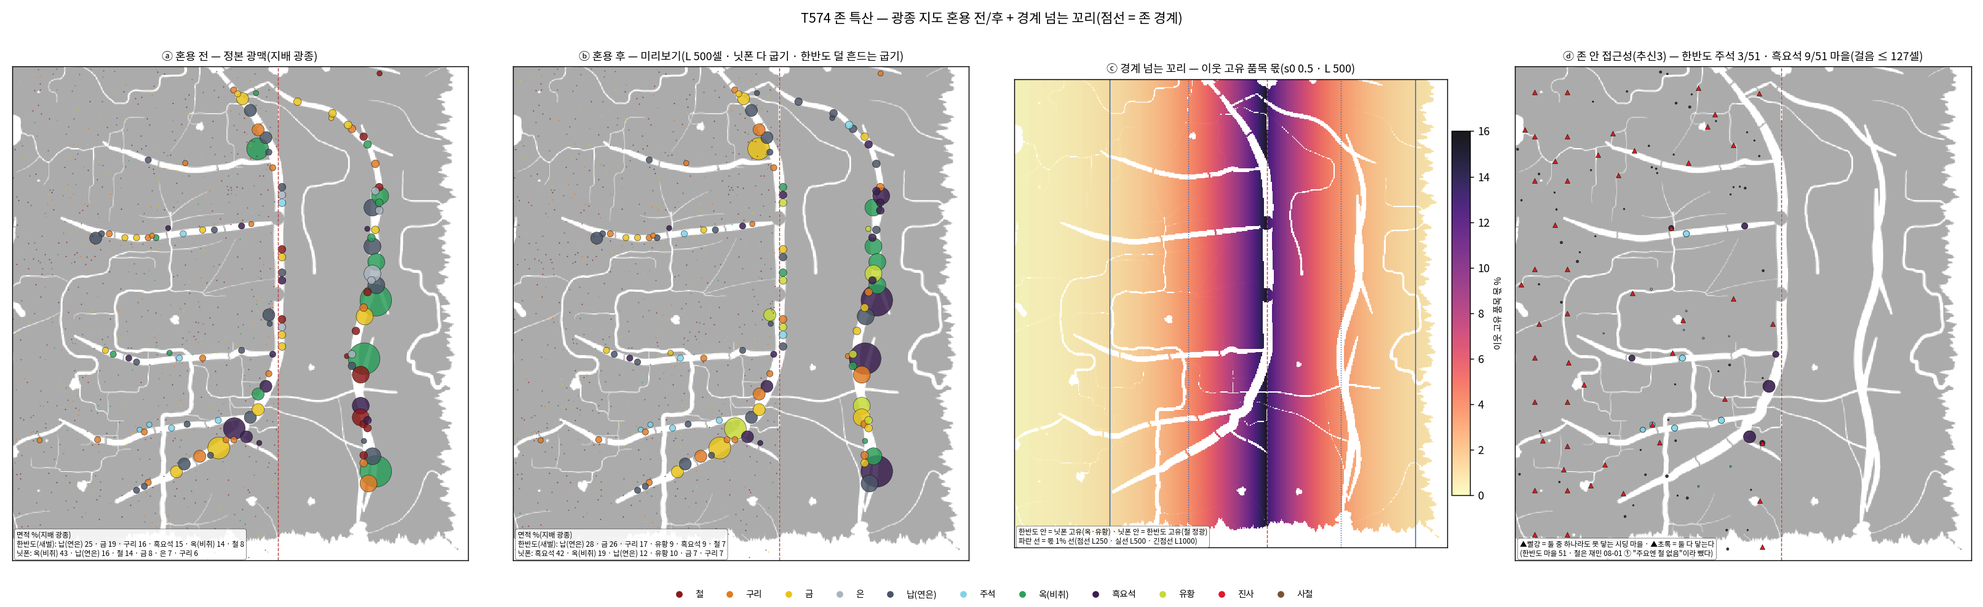
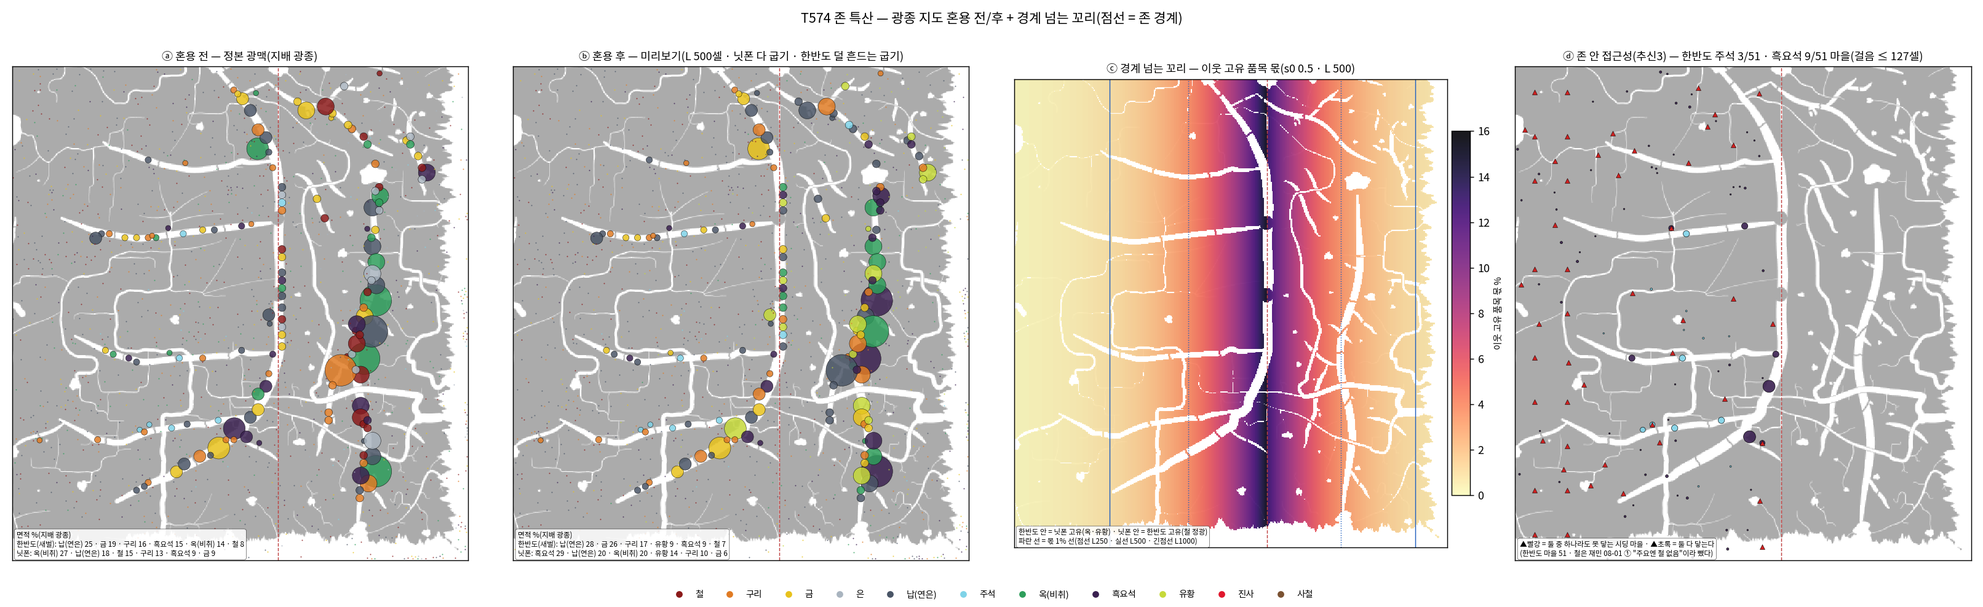
[승인 대기 · T574] ③ 지금 main(1b252a60) 위 다시 잼 — 보고 §3 새 절(첫 판은 §3-옛 기록) · T550 닛폰 정본 490·시딩 20 + T570 달력 여섯째 판 · 두 존 판 3시드 × 팔 셋 성장 존 비 끔 0.95/0.76/0.92 · 켬 0.82/0.73/0.80 · 새 품목 0.76/0.87/0.85(0.8~1.25 밖 셋 · 전부 아래 · 표에만) · 닛폰 광산 마을 1/7 → 11/20 · 켬 다 굽기가 넷에 유황(마트노 1.00 · 토오광산 0.75) · 교역 두 방향(한→닛 463~755
Claude-Session: https://claude.ai/code/session_01JuHsbfxFXZmmCyzvZJZ4At

diff --git a/보고/T574_2026-10-03.md b/보고/T574_2026-10-03.md
@@ -1,17 +1,17 @@
-# 보고 — T574: 존마다 특산이 크게 다르다 — 존 특산 프로필 정본(`server/region-profiles.js`) + 경계 넘는 꼬리(추신2) + 두 존 균형 자 · 광종 TV 설계 0 → 0.44 · 끔 = 다섯째 판 바이트 동일
+# 보고 — T574: 존마다 특산이 크게 다르다 — 존 특산 프로필 정본(`server/region-profiles.js`) + 경계 넘는 꼬리(추신2) + 두 존 균형 자 · ③ 지금 main 위 다시 잼 · 광종 TV 지금 0.28 → 표 0.44 · 끔 = 여섯째 판 바이트 동일
 
-**한 줄 답:** 존 특산 프로필을 표 하나(`region-profiles.js TABLE` — 품목 한 줄에 두 존의 단계 · 확실도 · 근거)로 세웠고, 추신2의 꼬리 혼용(이웃 **고유** 품목만 몫 = s₀ · 비중 · e^(−d/L) 로 이 존 안까지 든다)을 다섯 자리(계획기 굽기 · 부팅 채움 · 나무 · 낚시/민물 · 군락)에 걸었다. 손잡이 `T574_REGION` = 꼬리 L이고 기본은 끔이다. 끄면 옛 글자 그대로라 3시드 800일 두 자 × 세 시드가 main과 바이트 동일하다(다섯째 판 8,251/8,378/8,245 · 0/51). 손잡이만 켠 판도 같다. 광종 거리 TV는 지금 **설계 0**(두 존이 같은 POOL을 쓴다) · **실측 면적 0.42**(닛폰 큰 광맥 셋이 우연히 받은 옥)이고, 새 표로는 **0.44**, 닛폰을 다 굽고 한반도를 덜 흔들어 구운 미리보기(L500)로는 0.54다. L 표(250/500/1000)에서 닛폰 고유 품목(옥·유황)의 한반도 몫은 동쪽 끝 15.2% · 가운데 0.2/1.7/5.1% · 서쪽 끝 0.0/0.2/1.7%다. 두 존 판(경계 교역 켬 · 3시드)의 1인당 성장 존 비(닛폰 ÷ 한반도 · 인구 배수)는 끔 1.23/1.10/1.11 · 켬 1.03/1.14/1.09 · 새 품목 켬 1.07/1.13/1.10으로 전부 0.8~1.25 안이다(표에만 · 판정 0). 교역은 두 방향 다 선다. 다만 미리보기 세계에서는 **옥이 두 존 econ에서 사라지고**(흐름 962/328/1,067 → 0/0/0) **광산1의 원석 94%가 유황**(econ 쓰임 0 · 꼬리 한 번이 주요 광맥을 바꿈)이 됐다. 닛폰 econ 마을 일곱 중 광맥이 땅 원판에 든 마을은 하나뿐이다 — 닛폰 쪽 값은 T550 굽기 뒤에 다시 재야 한다.
+**한 줄 답:** ③을 지금 main(`1b252a60` — ①② 착지 `a33390da` + T550 닛폰 정본 광맥 490·시딩 20 + T570 달력 여섯째 판) 위에서 다시 쟀다. 두 존 판(경계 교역 켬 · 3시드 × 800일)의 1인당 성장 존 비(닛폰 ÷ 한반도)는 끔 0.95/0.76/0.92 · 켬(L500 미리보기) 0.82/0.73/0.80 · 새 품목 켬 0.76/0.87/0.85다. 0.8~1.25 밖이 셋이고 셋 다 아래쪽이다(표에만 · 판정 0). 지금 세계는 **끔부터 닛폰이 한반도보다 느리다**(첫 판 7마을 세계는 1.10~1.23으로 반대였다). 켬은 세 씨 모두 그 비를 더 낮춘다. 닛폰 다 굽기가 광산 마을 열하나의 땅 원판을 다 바꾸는데, 넷에는 econ 쓰임 0인 유황이 들고(마트노 1.00 · 토오광산 0.75) 구리 마을 둘은 연은이 된다. 소멸은 아홉 판 모두 0이다(도적 층 없는 자 — T577의 사각). 교역은 두 방향 다 선다(한→닛 넘음 463~755 · 닛→한 229~354 · 상위는 모피 · 광종 값 폭주 0일). 옥은 켬에서도 남는다(첫 판의 "옥 0"은 옛 닛폰의 결). 끄면 옛 글자 그대로라 여섯째 판(8,357/8,338/8,194 · 0/51)과 t17·t176 3시드가 **바이트 동일 6/6**이다(손잡이만 켠 판 · probe 단 판도 같다). 광종 TV는 지금 실측 **0.28**(닛폰 490 면적) → 새 표 **0.44** → 미리보기 L500 0.45다. L 표의 한반도 동끝 15.2% · 가운데 0.2/1.7/5.1% · 서끝 0.0/0.2/1.7%는 그대로이고, 이웃 고유 몫 ≥ 1%인 땅은 36.2/72.1/100% · 마을 22/47/81(/81)이다. (옛) 띠 D 200/400/800은 땅 10.5/21.5/42.9% · 마을 10/15/29다. 첫 판(옛 베이스 `4b1c400e`)의 표는 §3-옛에 기록으로 둔다.
 
-[승인 대기 · T574] · 가지 `batch/region-specialty-1003` = `ad128978`(내용 — `a74215bd` ①② → `4a6238ff` 새 품목 셋 → `ad128978` 자 셋(러너 밖) · 이 보고·인계·그림은 그 위 문서 커밋 하나) · 베이스 `4b1c400e`(main · 카드 받을 때 `14319908` → 추신1 `62bc979a` → 추신2·3 `4b1c400e` · 사이 main은 지시·족보뿐 · ①② 커밋을 새 main 위로 다시 얹었다 · 충돌 0) · 푸시 1 = `a74215bd`(①② · T550 기다림 · 채팅 한 줄) · force 0 · main 안 밀었다
-> **①** 프로필 표 — 광종(추신1 지질 · 근거 칸을 이번 판에 열었다) · 나무 종(T551 목재) · 낚시 종(biome 목록 그대로) · 식료 칸(민물·군락·작물·열매)은 **빈칸**(T576 · 추신2 ③) · TV 표(§1).
-> **②** 꼬리 혼용 — 식 · 이웃 · 다섯 자리 · 굽기 규칙 셋(재민 08-01) · L 표 · (옛 smoothstep D 표)(§2).
-> **③** 자 — ⓐ 두 존 판 3시드 × 팔 셋 · ⓑ 끔 = 다섯째 판 바이트 동일 + 한반도 단독 켬 · ⓒ 1인당 성장 존 비 · 은과 시대 축 · 새 품목 셋 · 추신3 존 안 접근성(§3).
-> **④** 그림 `산그림/T574_특산.png`(§4).
+[승인 대기 · T574] · 가지 `batch/region-specialty-1003` = `1f62b1ec`(내용 — `a74215bd` ①② → `4a6238ff` 새 품목 셋 → `ad128978` 자 셋(러너 밖) → `1f62b1ec` ③ 다시 잼 자 손질 둘 · 이 보고·인계·그림은 그 위 문서 커밋) · 베이스 `1b252a60`(main · ③ 다시 잼은 이 main 위에 이 가지를 얹은 판에서 쟀다 — 충돌 0 · ①②는 main에 `a33390da`로 착지 · 가지 자체는 `4b1c400e` 위 · 카드 받을 때 `14319908` → 추신1 `62bc979a` → 추신2·3 `4b1c400e`) · 푸시 1 = `a74215bd`(①②) · 푸시 2 = `dacd1e94`(첫 판 ③) · force 0 · main 안 밀었다
+> **①** 프로필 표 — 광종(추신1 지질 · 근거 칸을 이번 판에 열었다) · 나무 종(T551 목재) · 낚시 종(biome 목록 그대로) · 식료 칸(민물·군락·작물·열매)은 **빈칸**(T576 · 추신2 ③) · TV 표(§1 · 지금 main 값은 §3 ⓕ).
+> **②** 꼬리 혼용 — 식 · 이웃 · 다섯 자리 · 굽기 규칙 셋(재민 08-01) · L 표 · (옛 smoothstep D 표)(§2 · 지금 main 값은 §3 ⓕ).
+> **③** 자 — **지금 main 위 다시 잼(§3)**: ⓐ 두 존 판 3시드 × 팔 셋 · ⓑ 끔 = 여섯째 판 바이트 동일 · ⓒ 한반도 단독 켬 · ⓓ 닛폰 광산 마을 · ⓔ 존 안 접근성 · ⓕ TV·L·D 표 · ⓖ 첫 판과 다른 것. 첫 판은 §3-옛(은과 시대 축 · 유황 · 새 품목 셋 설명은 지금도 그대로다).
+> **④** 그림 `산그림/T574_특산.png`(§4 · 지금 main으로 다시 그렸다).
 
 * 새 코드: `server/region-profiles.js`(신설 · 표 · 꼬리 · 뽑기 · 굽기) · 다섯 자리 한두 줄씩(`scripts/plan-ore-clusters.js` · `server/zone.js` 낚시·부팅 채움 · `server/trees.js speciesAt` · `server/villages.js` 민물 · `server/freshfish.js pick(…, choose)` · `server/chunk.js` 야생 군락) — 전부 켬일 때만이다. POLY 표는 `hanbando-minerals.js`로 옮겼다(마이그레이션 스크립트도 그걸 읽는다 · 값 무변). 같은 파일 머리글은 "골고루 = 쏠림 방지"로 고쳤다(추신2·3). `specialty.js` 새 품목 셋은 `T574_NEW_ITEMS=1`일 때만 선다(번들 다시 굽기).
-* 자: `scripts/test-region-profiles.js`(하네스 · 61) · `t574-band-table.js` · `t574-ore-table.js` · `t574-access.js` · `t574-probe.js` · `t574-fig.py`
-* 검증: 3시드 800일 두 자(`t17` · `t176`) main = 끔 **바이트 동일 6/6** · 손잡이만 켬 = 끔(t17 1020) · probe 단 판 = 안 단 판(t17 1020) · `test-region-profiles` **61/0** · `test-nippon-boot` **42/0** · `test-seam` **8/0** · `t408-seam-gate` 끔 바뀐 청크 **0**(세 존) · `build-econ-bundle --check` **8/0** · `test-harness-lint` **61/0** · 이웃 하네스(mining · trees 91 · fishing 49 · tidal 123 · lab-trees 52 · fish-act 73 · forage-act 249 · wood-act 146 · oremix · assay) 초록 · 계획기 출력(닛폰 · 한반도) main 바이트 동일
-* 회부: L 값 · s₀ · 유황(econ 쓰임 0)을 주요 광맥에 둘지 · 꼬리를 주요 광맥에도 걸지(광산1) · 한반도 정본 787·닛폰 옛 55를 다시 구울지 · 새 품목 셋 값과 econ 거래 표 · 식료 칸(T576) · 중원북·베링 프로필 · 텅스텐·대리석 · 닛폰 econ 광산 마을 하나뿐(T550 뒤 다시 잼)
+* 자: `scripts/test-region-profiles.js`(하네스 · 61) · `t574-band-table.js`((옛) D 띠도 센다) · `t574-ore-table.js`(`--new` 순서 고침) · `t574-access.js` · `t574-probe.js` · `t574-fig.py`
+* 검증: **지금 main 위**(합치기 미리보기 · 충돌 0) — 3시드 800일 두 자(`t17` · `t176`) main = 끔 **바이트 동일 6/6**(여섯째 판) · 손잡이만 켬 = 끔 · probe 단 판 = 안 단 판(t17 1020) · `build-econ-bundle --check` **8/0** · `test-region-profiles` **61/0** · `test-harness-lint` **61/0**. 첫 판(옛 베이스)에서 — 두 자 다섯째 판 6/6 · `test-nippon-boot` **42/0** · `test-seam` **8/0** · `t408-seam-gate` 끔 바뀐 청크 **0**(세 존) · 이웃 하네스(mining · trees 91 · fishing 49 · tidal 123 · lab-trees 52 · fish-act 73 · forage-act 249 · wood-act 146 · oremix · assay) 초록 · 계획기 출력(닛폰 · 한반도) main 바이트 동일
+* 회부: L 값 · s₀ · 유황·진사(econ 쓰임 0)를 주요 광맥에 둘지(지금 main에서 닛폰 광산 마을 넷 · T580 굽기 **전에**) · 꼬리를 주요 광맥에도 걸지 · 한반도 정본 787을 다시 구울지 · 닛폰 정본 490에 재민 08-01 규칙 셋이 없음(주요 철 18 · 은 단독 · 다광종 0 — T580 ③) · 닛폰이 끔부터 느림(T574 밖 · 표만) · 도적 층 든 자로 다시(T577) · 새 품목 셋 값과 econ 거래 표 · 식료 칸(T576) · 중원북·베링 프로필 · 텅스텐·대리석
 
 ---
 
@@ -68,6 +68,7 @@
 | 민물 · 군락 | 0 | — | 0(식료 빈칸) | — |
 
 * 실측 면적 TV는 큰 광맥 몇이 정한다. 닛폰은 광맥 55 · 큰 것 셋이 면적의 34.3%다. 미리보기에서 그 셋이 흑요석·옥 등으로 바뀌어 닛폰 면적의 흑요석이 42.5%가 됐다(지금 옥 43%와 같은 "우연"이다). 닛폰의 실측 면적이 설계 몫에 가까워지는 것은 T550 굽기(대 2 · 중 7 · 소 20 + 자잘) 뒤다.
+* ★**지금 main(T550 닛폰 정본 490)의 값은 §3 ⓕ**다: 실측 0.2826 · 조성 0.1987 · 주요만 0.3552 · 미리보기 L250/500/1000 0.4562 / 0.4454 / 0.4295. 위 표의 '지금(실측)'과 '미리보기'는 옛 닛폰 55의 값이다.
 
 ## 2. ② 꼬리 혼용 — 식 · 이웃 · 다섯 자리
 
@@ -86,8 +87,8 @@
 | ④ 물고기 종 | zone.js 낚시(주사위 한 번 그대로) · villages.js 민물 → `freshfish.pick(…, choose)` | 옛 줄 | 닛폰 경계 물에 한반도 종(잉어·명태)이 꼬리로 든다(경계 33.3%) · 민물은 빈칸 |
 | ⑤ 나무 종 | trees.js `speciesAt` | `h % 8` | 닛폰 참나무·밤나무 20.5% · 한반도는 닛폰 고유 나무가 없어 **비트 동일**(t408 켬 한반도 바뀐 청크 0 · 닛폰 2,217/6,223) |
 
-* **굽기 = 땅속 뽑기 + 재민 08-01 규칙 셋**(`bakeOre`): ① 주요(NPC 시야) 광맥엔 철·사철이 없다("철은 기본 마을에서는 안 생기도록. 플레이어가 탐험해서 찾는 거야") ③ 은 단독 광맥은 없다 → 연은 ② 납·구리·금은 POLY 분포(`minerals`). 규칙은 지금 한반도에만 걸려 있다. T550이 같은 함수로 굽기 때문에 닛폰 새 광맥에도 그대로 선다. POLY 표는 `hanbando-minerals.js`로 옮겼다(사본 0 · 마이그레이션 미리보기 출력 main 바이트 동일).
-* ⚠**구운 정본 광맥은 런타임에 다시 안 뽑는다** — 광종 혼용은 구울 때 한 번이다(카드 ② "정본 json 의 mineral 칸"). 한반도 787(재민 v9 + 마을 배정)과 닛폰 옛 55를 이 프로필로 다시 구울지는 정본 데이터 판정이다(재민 · T550). `t574-ore-table.js --write`는 **미리보기 json**만 낸다.
+* **굽기 = 땅속 뽑기 + 재민 08-01 규칙 셋**(`bakeOre`): ① 주요(NPC 시야) 광맥엔 철·사철이 없다("철은 기본 마을에서는 안 생기도록. 플레이어가 탐험해서 찾는 거야") ③ 은 단독 광맥은 없다 → 연은 ② 납·구리·금은 POLY 분포(`minerals`). 규칙은 지금 한반도에만 걸려 있다. T550의 닛폰 정본 490은 옛 picker로 구워져 규칙 셋이 아직 없다(주요 철 18 · 은 단독 주요 12 · 다광종 0). T580 ③이 같은 함수로 다시 구우면 닛폰에도 선다(§3 ⓓ). POLY 표는 `hanbando-minerals.js`로 옮겼다(사본 0 · 마이그레이션 미리보기 출력 main 바이트 동일).
+* ⚠**구운 정본 광맥은 런타임에 다시 안 뽑는다** — 광종 혼용은 구울 때 한 번이다(카드 ② "정본 json 의 mineral 칸"). 한반도 787(재민 v9 + 마을 배정)과 닛폰 정본 490(T550)을 이 프로필로 다시 구울지는 정본 데이터 판정이다(재민 · T580 ③). `t574-ore-table.js --write`는 **미리보기 json**만 낸다.
   * 닛폰 = 다 굽기(R1).
   * 한반도 = 덜 흔드는 굽기(R2): 꼬리 — 씨 732 해시 < 그 자리 T면 이웃 고유 품목으로 · 이 존에서 '없음'이 된 정본 광종(옥)만 다시 뽑기 · 나머지 정본 그대로.
 
@@ -108,8 +109,211 @@
 * 마을별 몫(L500): 한반도 광산1 13.3% · 어촌6 11.2% · 광산7 11.2% · 농촌3 10.7% · 광산2 10.6% · 어촌14 7.0% · 임업3 6.9% · … · 어촌10 1.0% / 닛폰 쿠라마 11.4% · 노라마 7.8% · 네코로 7.8% · 타카쿠 7.0% · … (전체 목록 `t574-band-table.js` 출력).
 * 뭍 = T524의 뜻(실셀 · 바다 띠 · 민물 · 바위를 뺀 것): 한반도 7,546,129 · 닛폰 4,762,478셀.
 * **(옛) smoothstep D 표** — 카드 ②의 띠(추신2가 꼬리로 바꿨다 · 기록으로만): D 200 · 400 · 800셀에서 두 존 뭍의 10.32 · 21.67 · 43.07%가 띠 안이고, 띠 안 마을(후보)은 6 · 11 · 22다.
+* ★**지금 main(닛폰 뭍 4,442,641 · 후보 30)의 뭍·마을 칸과 (옛) D 표는 §3 ⓕ에 다시 셌다** — L 표 ≥ 1% 땅 36.17 / 72.14 / 100% · 마을 22 / 47 / 81(/81) · D 띠 땅 10.48 / 21.49 / 42.87% · 마을 10 / 15 / 29. 끝·가운데 몫(위 표)은 같다.
 
-## 3. ③ 두 존 자 — 3시드(1020 · 7 · 42) × 800일
+## 3. ③ 두 존 자 — 지금 main(`1b252a60`) 위에서 다시 잼 · 3시드(1020 · 7 · 42) × 800일
+
+**왜 다시 쟀나**: ①②가 main에 `a33390da`로 착지했다(족보 522 "③ 균형 자는 세션1 이어서"). 같은 착지 판에 T550 닛폰 정본(광맥 490 · 후보 30 · 시딩 20)과 T570 달력(여섯째 판 8,357 / 8,338 / 8,194 · 0/51)이 들어왔다. 첫 판(§3-옛)은 닛폰 옛 55 광맥 · 시딩 7 · 다섯째 판에서 잰 것이다. 닛폰 econ 광산 마을이 하나뿐이라 회부 ⑧에 "T550 뒤에 다시"라고 적었던 그 판이다. 이 절이 지금 세계의 답이다.
+
+* **판**: 지금 main `1b252a60` 위에 이 가지(`dacd1e94` — ①② 뒤 새 품목 셋 · 자 셋 · 문서)를 얹은 합치기 미리보기에서 잰다. 미리보기는 충돌 0 · `build-econ-bundle --check` 8/0 · `test-region-profiles` 61/0 · `test-harness-lint` 61/0이다. 가지 자체는 `4b1c400e` 위에 있다 — 그대로 얹으면 econ이 보는 나무는 이 판과 같다. 잰 뒤의 자 손질 `1f62b1ec`은 러너 밖이고, 게이트는 main에 이 가지를 cherry-pick 한 나무에서 다시 돌렸다(§5).
+* **자·팔·시드 캐시**: 첫 판과 같다. `off` 정본 · `on` 미리보기 L500(`T574_REGION=500`) · `onnew` 새 품목 미리보기(+`T574_NEW_ITEMS=1`). 시드 캐시는 팔마다 따로 둬서 땅 원판(oreMix)을 그 json에서 다시 굽는다. probe(-r 읽기만)를 단 t17 1020 = 안 단 판 바이트 동일이다.
+* **미리보기 json도 지금 정본에서 다시 구웠다**(`t574-ore-table.js --write` · 정본 무변):
+  * 닛폰 = 다 굽기 489/490(주요 83/84). T550의 490은 옛 picker로 구워져 재민 08-01 규칙 셋이 안 걸려 있다 — 주요 철 18 · 은 단독 주요 12 · 자잘 39 · 다광종 0. 다 굽기가 그 셋을 건다(주요 철 0 · 은 → 연은 · 다광종).
+  * 한반도 = 덜 흔드는 굽기 121/787(주요 8) — 첫 판 json과 **바이트 같다**(정본·프로필·씨가 같다).
+  * ⚠`--new` 가 손잡이를 specialty 를 실은 **뒤**에 켜서 새 품목 미리보기가 안 바뀌던 것을 잡았다. 순서를 고쳤다(첫 판은 손잡이를 밖에서 줘서 맞게 구워졌다 · 이번 판도 같은 바이트 확인).
+
+### ⓐ-1 존별 인구 · 소멸 · 1인당 성장(존 비 = 닛폰 ÷ 한반도 · 0.8~1.25는 표에만 · 판정 0)
+
+1인당 성장 = 800일 인구 ÷ 시작 인구(마을 × 8)이고, 존 비 = 닛폰 배수 ÷ 한반도 배수다. 곁 칸 둘은 800일 1인당 재고의 존 비다. 닛폰은 시딩 20(시작 160)이다 — 첫 판은 7(56)이었다.
+
+| 팔 | 씨 | 한반도 인구(시작 → 800일 · 배) · 소멸 | 닛폰 인구(시작 → 800일 · 배) · 소멸 | **성장 존 비** | 1인당 생곡 존 비 | 1인당 도구Q 존 비 | 0.8~1.25 |
+|---|---:|---|---|---:|---:|---:|---|
+| `off` | 1020 | 408 → 7,930 · ×19.44 · 0/51 | 160 → 2,947 · ×18.42 · 0/20 | **0.948** | 0.914 | 0.962 | 안 |
+| `off` | 7 | 408 → 8,175 · ×20.04 · 0/51 | 160 → 2,432 · ×15.20 · 0/20 | **0.759** | 0.820 | 1.003 | **밖** |
+| `off` | 42 | 408 → 7,277 · ×17.84 · 0/51 | 160 → 2,636 · ×16.48 · 0/20 | **0.924** | 0.771 | 0.818 | 안 |
+| `on` | 1020 | 408 → 8,030 · ×19.68 · 0/51 | 160 → 2,577 · ×16.11 · 0/20 | **0.818** | 0.897 | 0.949 | 안 |
+| `on` | 7 | 408 → 8,365 · ×20.50 · 0/51 | 160 → 2,388 · ×14.93 · 0/20 | **0.728** | 0.899 | 0.846 | **밖** |
+| `on` | 42 | 408 → 8,293 · ×20.33 · 0/51 | 160 → 2,608 · ×16.30 · 0/20 | **0.802** | 0.952 | 0.943 | 안 |
+| `onnew` | 1020 | 408 → 7,762 · ×19.02 · 0/51 | 160 → 2,318 · ×14.49 · 0/20 | **0.762** | 0.907 | 0.978 | **밖** |
+| `onnew` | 7 | 408 → 7,941 · ×19.46 · 0/51 | 160 → 2,703 · ×16.89 · 0/20 | **0.868** | 1.014 | 0.981 | 안 |
+| `onnew` | 42 | 408 → 8,135 · ×19.94 · 0/51 | 160 → 2,725 · ×17.03 · 0/20 | **0.854** | 0.918 | 0.950 | 안 |
+
+* **소멸 0**: 아홉 판 모두 0/51 · 0/20이다.
+* **성장 존 비**는 끔 0.95/0.76/0.92 · 켬 0.82/0.73/0.80 · 새 품목 켬 0.76/0.87/0.85다. 0.8~1.25 밖은 아홉 판 중 셋(끔 7 · 켬 7 · 새 품목 켬 1020)이고, **셋 다 아래쪽**이다(닛폰이 느리다).
+  * 지금 세계는 **끔부터 닛폰이 한반도보다 느리다**. 첫 판(닛폰 7마을)은 반대였다(끔 1.23/1.10/1.11). T574 밖의 몫이다 — 닛폰 정본(T550) 세계의 결이다.
+  * **켬(L500)은 세 씨 모두 존 비를 낮춘다**(0.95 → 0.82 · 0.76 → 0.73 · 0.92 → 0.80). 닛폰 인구 −12.6% · −1.8% · −1.1%, 한반도 +1.3% · +2.3% · +14.0%다. 첫 판에서는 방향이 씨마다 갈렸다.
+  * 새 품목 켬은 씨마다 갈린다(닛폰 −21.3% · +11.1% · +3.4%).
+  * 켬에서 닛폰 광산 마을 열하나의 땅 원판이 다 바뀐다(ⓓ). 넷에 econ 쓰임 0인 유황이 들고, 구리 원판 마을 둘이 연은으로 간다 — 닛폰이 주는 쪽과 맞는 변화다(인과를 가른 자는 아니다).
+* 1인당 생곡 존 비 0.77~1.01 · 1인당 도구Q 존 비 0.82~1.00이다. 첫 판(생곡 1.07~1.43)과 달리 닛폰 쪽이 덜 쌓는다.
+
+### ⓐ-2 경계 교역 두 방향(캐러밴 넘음 · 짐 값 = 양 × 기준값 · 상위 다섯)
+
+| 팔 | 씨 | 한반도→닛폰: 넘음 · 짐 값 · 상위 | 닛폰→한반도: 넘음 · 짐 값 · 상위 |
+|---|---:|---|---|
+| `off` | 1020 | 648 · 308,484 · 모피 31% · 옥 13% · 쌀 12% · 목재 9% · 식량 7% | 272 · 234,669 · 옥 30% · 식량 21% · 목재 8% · 가죽 7% · 연어 6% |
+| `off` | 7 | 715 · 285,286 · 모피 23% · 쌀 16% · 목재 7% · 연어 7% · 게 6% | 247 · 146,322 · 연어 14% · 게 12% · 식량 11% · 새우 8% · 모피 6% |
+| `off` | 42 | 754 · 331,055 · 모피 22% · 쌀 14% · 옥 14% · 목재 12% · 식량 6% | 263 · 187,410 · 식량 18% · 옥 12% · 새우 12% · 연어 10% · 게 7% |
+| `on` | 1020 | 661 · 393,269 · 모피 27% · 식량 9% · 옥 9% · 쌀 8% · 목재 6% | 256 · 191,048 · 식량 18% · 연어 17% · 게 9% · 소금 6% · 가죽 5% |
+| `on` | 7 | 554 · 256,811 · 모피 25% · 쌀 10% · 목재 9% · 옥 8% · 흑요석 7% | 229 · 105,635 · 식량 16% · 새우 12% · 연어 11% · 게 10% · 모피 9% |
+| `on` | 42 | 591 · 315,998 · 모피 23% · 목재 11% · 식량 10% · 쌀 8% · 옥 8% | 296 · 167,367 · 식량 17% · 연어 16% · 모피 8% · 가죽 8% · 목재 7% |
+| `onnew` | 1020 | 627 · 366,510 · 모피 30% · 쌀 8% · 식량 8% · 연어 8% · 게 7% | 240 · 120,011 · 연어 21% · 식량 18% · 가죽 10% · 게 9% · 쌀 6% |
+| `onnew` | 7 | 463 · 272,425 · 모피 31% · 쌀 8% · 목재 8% · 식량 8% · 연어 6% | 354 · 196,839 · 식량 18% · 연어 17% · 돌 9% · 새우 7% · 목재 6% |
+| `onnew` | 42 | 755 · 360,632 · 모피 28% · 목재 10% · 쌀 10% · 연어 8% · 식량 7% | 246 · 159,138 · 식량 16% · 연어 14% · 돌 9% · 모피 8% · 새우 7% |
+
+* **두 방향 다 선다**(아홉 판 모두). 한반도 → 닛폰은 넘음 463~755 · 짐 값 25.7만~39.3만이고, 닛폰 → 한반도는 229~354 · 10.6만~23.5만이다.
+  * 첫 판과 방향의 무게가 뒤집혔다(첫 판 한→닛 212~340 · 닛→한 315~543). 닛폰 마을이 7 → 20이 되어 한반도 캐러밴이 닛폰으로 더 많이 간다.
+* 큰 짐은 모피 · 쌀 · 목재 · 식량 · 연어 · 게·새우다. 광종 가운데 상위 다섯에 드는 것은 **옥**뿐이다(흑요석은 켬 7 한→닛 7% 한 번).
+  * 끔: 닛→한 옥 30%(1020) · 12%(42) · 한→닛 옥 13%(1020) · 14%(42). 켬: 한→닛 옥 8~9%로 남고, 닛→한 상위에서는 빠진다.
+
+### ⓐ-3 품목별 흐름 상위 열(두 존 교역 장부 · 존 안 + 존 넘음 · 값 몫) · 광종 흐름(양)
+
+| 팔 | 씨 | 상위 열(값 몫) | 광종 흐름(양) |
+|---|---:|---|---|
+| `off` | 1020 | 모피 17.5% · 옥 10.7% · 식량 10.3% · 쌀 8.6% · 목재 8.4% · 연어 7.5% · 가죽 6.3% · 게 4.1% · 돌 4.1% · 새우 3.0% | 구리 802 · 금 20 · 은 15 · 납 138 · 주석 459 · 옥 5,772 · 흑요석 2,834 |
+| `off` | 7 | 모피 15.0% · 연어 10.5% · 쌀 9.4% · 식량 9.1% · 목재 8.4% · 가죽 6.9% · 게 6.4% · 새우 4.4% · 돌 3.7% · 옥 3.3% | 구리 262 · 금 6 · 은 5 · 납 44 · 주석 60 · 옥 1,640 · 흑요석 1,246 |
+| `off` | 42 | 모피 16.7% · 식량 9.9% · 쌀 9.2% · 연어 9.0% · 목재 8.3% · 옥 6.6% · 가죽 6.1% · 게 5.1% · 돌 4.1% · 새우 4.1% | 구리 582 · 금 42 · 은 33 · 납 209 · 주석 386 · 옥 3,233 · 흑요석 854 |
+| `on` | 1020 | 모피 22.5% · 식량 10.1% · 연어 9.2% · 쌀 8.2% · 목재 7.3% · 가죽 5.9% · 게 4.9% · 옥 4.4% · 새우 3.3% · 밀 2.9% | 구리 311 · 금 54 · 은 65 · 납 139 · 주석 313 · 옥 2,472 · 흑요석 6,614 · 유황 208 |
+| `on` | 7 | 모피 21.9% · 목재 9.8% · 식량 9.1% · 연어 8.6% · 쌀 7.9% · 가죽 5.5% · 게 4.7% · 돌 4.1% · 옥 3.6% · 새우 3.6% | 구리 489 · 금 53 · 은 42 · 납 241 · 주석 643 · 옥 1,870 · 흑요석 5,603 · 유황 57 |
+| `on` | 42 | 모피 22.0% · 연어 9.8% · 식량 9.2% · 목재 8.9% · 쌀 7.3% · 가죽 5.1% · 게 4.7% · 새우 4.0% · 돌 3.3% · 옥 3.2% | 구리 2 · 금 18 · 은 56 · 납 345 · 주석 318 · 옥 1,804 · 흑요석 5,590 · 유황 1 |
+| `onnew` | 1020 | 모피 23.9% · 연어 9.4% · 식량 9.2% · 쌀 9.1% · 목재 6.9% · 게 5.0% · 가죽 4.1% · 새우 3.9% · 돌 3.4% · 밀 3.1% | 구리 377 · 금 35 · 은 72 · 납 430 · 주석 839 · 옥 1,435 · 흑요석 6,230 · 유황 457 |
+| `onnew` | 7 | 모피 23.7% · 목재 9.6% · 쌀 9.5% · 연어 9.2% · 식량 8.5% · 게 4.0% · 옥 3.7% · 새우 3.6% · 돌 3.5% · 가죽 3.5% | 구리 12 · 금 93 · 은 25 · 납 261 · 주석 355 · 옥 2,039 · 흑요석 4,579 · 유황 66 |
+| `onnew` | 42 | 모피 24.4% · 연어 9.3% · 목재 8.4% · 식량 7.7% · 가죽 6.3% · 쌀 6.2% · 게 5.2% · 돌 4.2% · 새우 3.3% · 옥 2.6% | 구리 324 · 금 36 · 은 77 · 납 692 · 주석 683 · 옥 1,602 · 흑요석 6,256 · 유황 60 |
+
+* 한 품목이 교역을 먹어 버리지는 않는다. 상위는 아홉 판 모두 모피(15~24%)다. 옥이 끔 상위 열에 든다(10.7% · 3.3% · 6.6%) — 켬에서는 2.6~4.4%다(새 품목 켬 1020은 열 밖).
+* 광종 흐름(양):
+  * 흑요석 끔 2,834/1,246/854 → 켬 6,614/5,603/5,590(닛폰 미리보기 면적 29%가 흑요석이다).
+  * **옥은 켬에서도 남는다** — 5,772/1,640/3,233 → 2,472/1,870/1,804. 첫 판의 "옥 0"은 닛폰 옛 세계(광산 마을 하나)의 결이었다. 지금은 미도리광산(옥 0.50) · 사키농촌(0.15)이 옥을 낸다.
+  * 구리 802/262/582 → 311/489/2(구리 원판 마을 둘이 연은으로) · 유황 0 → 208/57/1(새 품목 켬 457/66/60 — 아무도 안 쓴다).
+
+### ⓐ-4 값 폭주(존 가운데 값이 기준값의 ×3을 넘은 날 수 · 800일)
+
+| 존 | 품목 | `off` 1020 · 7 · 42 | `on` 1020 · 7 · 42 | `onnew` 1020 · 7 · 42 |
+|---|---|---|---|---|
+| 두 존 | 광종 열두(철·구리·금·은·납·주석·옥 원석·옥·흑요석·유황·진사·사철) | 0 · 0 · 0 | 0 · 0 · 0 | 0 · 0 · 0 |
+| 한반도 | 연어 | 720 · 596 · 660 | 755 · 693 · 688 | 418 · 755 · 336 |
+| 한반도 | 생가죽 | 186 · 588 · 339 | 419 · 356 · 522 | 456 · 354 · 417 |
+| 한반도 | 가죽 | 329 · 523 · 334 | 259 · 368 · 410 | 526 · 343 · 361 |
+| 한반도 | 목재 | 546 · 458 · 711 | 503 · 462 · 472 | 541 · 515 · 533 |
+| 한반도 | 모피 | 257 · 542 · 341 | 198 · 308 · 333 | 308 · 329 · 313 |
+| 한반도 | 보리 | 226 · 421 · 463 | 242 · 430 · 382 | 416 · 343 · 360 |
+| 한반도 | 게 | 780 · 750 · 766 | 780 · 771 · 783 | 598 · 775 · 613 |
+| 한반도 | 새우 | 776 · 769 · 776 | 781 · 785 · 782 | 617 · 786 · 671 |
+| 닛폰 | 점토 | 0 · 0 · 0 | 253 · 199 · 494 | 0 · 0 · 0 |
+| 닛폰 | 숯 | 207 · 59 · 169 | 695 · 61 · 408 | 332 · 169 · 142 |
+| 닛폰 | 생가죽 | 541 · 560 · 657 | 448 · 742 · 555 | 538 · 422 · 419 |
+| 닛폰 | 연어 | 549 · 455 · 610 | 340 · 619 · 501 | 597 · 640 · 486 |
+| 닛폰 | 모피 | 745 · 800 · 800 | 563 · 754 · 731 | 797 · 635 · 576 |
+| 닛폰 | 고기 | 124 · 127 · 326 | 221 · 247 · 223 | 329 · 340 · 171 |
+| 닛폰 | 굴 | 710 · 617 · 737 | 500 · 742 · 736 | 624 · 749 · 737 |
+| 닛폰 | 목재 | 569 · 771 · 617 | 757 · 776 · 663 | 739 · 653 · 686 |
+
+* **광종 열두 품목은 아홉 판 × 두 존 모두 0일**이다.
+* 켬 팔에서만 닛폰 **점토**가 ×3 위에 199~494일 있다(끔 · 새 품목 켬 0). 점토는 광맥 채굴의 부산물이다(`economy-sim.js` 채굴량 × 0.08 · 옹기 수요). 숯도 켬에서 는다(1020 207 → 695 · 42 169 → 408). 둘 다 닛폰 광산 마을 원판이 바뀐 자리와 겹친다 — 기전은 안 갈랐다.
+* 나머지(연어 · 가죽 · 모피 · 게 · 새우 · 굴 · 목재)는 끔부터 오래 ×3 위에 있는 품목이고, 방향이 씨마다 갈린다(T534 문법 — 800일 econ의 씨 폭).
+
+### ⓑ 끔 = 여섯째 판 바이트 동일
+
+| 씨 | `t17` JSON(main `1b252a60` ↔ main + 이 가지 · 끔) | `t176` JSON(같은 둘) | 인구 · 소멸 |
+|---:|---|---|---|
+| 1020 | 7,714B **같다** · 손잡이만 켬(`T574_REGION=500`) **같다** · probe 단 판 **같다** | 615,274B **같다** | 8,357 · 0/51 |
+| 7 | 7,728B **같다** | 615,352B **같다** | 8,338 · 0/51 |
+| 42 | 7,730B **같다** | 613,876B **같다** | 8,194 · 0/51 |
+
+* 여덟 수는 **여섯째 판**(족보 517 · 달력 켬) 그대로다. 새 품목 셋 · 자 셋 · 번들 다시 굽기를 얹어도 끔은 바이트 그대로다.
+
+### ⓒ 한반도 단독 켬(미리보기 json L500 · `T574_REGION=500` · t17 여덟 수 · 여섯째 판 대비)
+
+| 씨 | 인구 | 소멸 | 무기Q | 확장셀 | 게시 | 도구Q | 보존식 | 생곡 |
+|---:|---|---|---|---|---|---|---|---|
+| 1020 | 8,357 → **8,043**(-3.8%) | 0/51 | 1,402 → 1,231 | 10,838 → 9,943 | 2,848 → 2,512 | 16,826.3 → 15,586.8 | 5,500.2 → 5,782.5 | 83,000.4 → 72,864.9 |
+| 7 | 8,338 → **7,870**(-5.6%) | 0/51 | 1,486 → 1,302 | 11,059 → 9,996 | 2,845 → 2,678 | 16,417.4 → 15,606.3 | 5,776.5 → 6,476.2 | 82,694.7 → 71,259.8 |
+| 42 | 8,194 → **8,100**(-1.1%) | 0/51 | 1,374 → 1,324 | 9,704 → 9,499 | 2,704 → 2,791 | 15,710.7 → 16,221.4 | 4,594.7 → 5,223.5 | 71,617.9 → 76,289.8 |
+
+* 한반도 혼자서는 켬이 인구 −3.8% · −5.6% · −1.1%다(첫 판 다섯째 판 대비 −2.2 · −7.4 · −2.6%). 한반도 미리보기 json이 첫 판과 바이트 같아서, 바뀐 마을 원판도 같은 여섯이다(광산1 유황 0.94 · 어촌14 옥 → 금·은 · §3-옛 ⓑ).
+* 두 존 판에서는 같은 켬이 한반도를 +1.3% · +2.3% · +14.0% 움직인다. 경계가 열리면 한반도의 손실이 교역으로 메워지고 남는다.
+
+### ⓓ 닛폰 econ의 광산 마을 — 1/7 → 11/20 · 켬에서 무엇이 바뀌나
+
+땅 원판(140셀)에 광맥이 든 닛폰 시딩 마을의 oreMix(시드 캐시 · 팔마다)다. 굵은 칸 = econ 쓰임 0(유황 · 진사).
+
+| 닛폰 시딩 마을 | `off` 정본 | `on` 미리보기 L500 | `onnew` 새 품목 | 쓰임 0 몫(켬 · 새 품목) |
+|---|---|---|---|---:|
+| 이즈이 | 은 0.46 · 금 0.39 · 옥 0.15 | 납 0.56 · **유황 0.25** · 은 0.10 · 흑요석 0.09 | 납 0.71 · 은 0.12 · 흑요석 0.11 · **진사 0.06** | 0.25 · 0.06 |
+| 마트노 | 은 1.00 | **유황 1.00** | **진사 1.00** | 1.00 · 1.00 |
+| 카토쿠 | 구리 1.00 | 납 0.84 · 은 0.15 · 흑요석 0.02 | 납 0.82 · 은 0.15 · **유황 0.03** | 0.00 · 0.03 |
+| 타카쿠 | 금 1.00 | 납 0.85 · 은 0.15 | 옥 1.00 | 0.00 · 0.00 |
+| 네코로 | 구리 1.00 | 납 0.85 · 은 0.15 | 납 0.85 · 은 0.15 | 0.00 · 0.00 |
+| 사키농촌 | 납 0.84 · 옥 0.12 · 철 0.03 · 흑요석 0.01 | 흑요석 0.77 · 옥 0.15 · **유황 0.04** · 구리 0.04 | 흑요석 0.90 · 옥 0.06 · 구리 0.03 · **진사 0.01** | 0.04 · 0.01 |
+| 후카임업 | 금 1.00 | 납 0.85 · 은 0.15 | 납 0.85 · 은 0.15 | 0.00 · 0.00 |
+| 후지로 | 철 0.56 · 납 0.32 · 옥 0.10 · 은 0.01 · 흑요석 0.01 | 흑요석 0.44 · 구리 0.41 · **유황 0.06** · 옥 0.04 · 금 0.03 · 은 0.03 | **유황 0.61** · 구리 0.26 · 흑요석 0.09 · 금 0.02 · 은 0.02 | 0.06 · 0.61 |
+| 토오광산 | 철 0.87 · 흑요석 0.12 · 구리 0.01 | **유황 0.75** · 금 0.18 · 은 0.05 · 납 0.01 | 금 0.48 · **진사 0.36** · 은 0.13 · 납 0.04 | 0.75 · 0.36 |
+| 미도리광산 | 납 0.96 · 옥 0.03 · 금 0.01 | 옥 0.50 · 납 0.31 · 흑요석 0.13 · 은 0.06 | 옥 0.31 · 납 0.23 · 흑요석 0.23 · **유황 0.20** · 은 0.04 | 0.00 · 0.20 |
+| 쿠라다 | 구리 0.44 · 납 0.25 · 흑요석 0.22 · 옥 0.09 | **유황 0.37** · 납 0.29 · 흑요석 0.27 · 은 0.05 · 옥 0.02 | 납 0.42 · 흑요석 0.38 · **진사 0.10** · 은 0.07 · 옥 0.03 | 0.37 · 0.10 |
+
+
+* 첫 판은 이런 마을이 쿠라다 하나(1/7)였다. 지금은 열하나(11/20)다 — 닛폰 특산이 econ에 실리는 길이 섰다.
+* 켬(다 굽기)은 열하나를 모두 바꾼다:
+  * **쓰임 0 몫**: 켬 마트노 1.00 · 토오광산 0.75 · 쿠라다 0.37 · 이즈이 0.25. 새 품목 켬은 마트노 1.00(진사) · 후지로 0.61 · 토오광산 0.36 · 미도리광산 0.20.
+  * **구리가 빠진다**: 카토쿠 · 네코로(구리 1.00)가 연은(납 0.85 · 은 0.15)이 된다. 청동의 구리 쪽이다.
+  * 정본의 철(토오광산 0.87 · 후지로 0.56)은 재민 08-01 ①(주요엔 철 없음)로 빠진다.
+* T580 ③이 같은 함수(`bakeOre`)로 닛폰 490을 다시 구우면 이런 꼴이 선다(뽑기 씨가 같으면 이 표 그대로). **회부 ①(유황·진사를 주요에 둘지)·②(꼬리를 주요에 걸지)를 굽기 전에 정하는 게 맞다.**
+
+### ⓔ 존 안 접근성(추신3) — 닛폰(시딩 20 · 후보 30)
+
+자는 §3-옛 ⓓ와 같다(걸음 127셀 · 시딩 마을 · 전부 / 주요만 · 🟥 = 절반 미만 · 꼬리로 든 이웃 고유 품목은 뺐다). 칸 = 전부 광맥 / 주요만.
+
+| 품목 | 정본 | L250 | L500 | L1000 | L500 새 품목 |
+|---|---|---|---|---|---|
+| (아무 광맥) | 18 / 🟥8 | 18 / 🟥8 | 18 / 🟥8 | 18 / 🟥8 | 18 / 🟥8 |
+| 구리 | 🟥3 / 🟥2 | 🟥4 / 🟥1 | 🟥4 / 🟥1 | 🟥4 / 🟥1 | 🟥4 / 🟥1 |
+| 금 | 🟥6 / 🟥2 | 🟥7 / 🟥2 | 🟥7 / 🟥2 | 🟥7 / 🟥2 | 🟥7 / 🟥2 |
+| 은(연은 포함) | 🟥4 / 🟥1 | 13 / 🟥6 | 13 / 🟥6 | 12 / 🟥6 | 🟥9 / 🟥5 |
+| 옥 ★고유 | 🟥5 / 🟥3 | 🟥6 / 🟥4 | 🟥6 / 🟥4 | 🟥6 / 🟥4 | 🟥7 / 🟥4 |
+| 흑요석 | 🟥3 / 🟥2 | 🟥9 / 🟥3 | 🟥8 / 🟥3 | 🟥8 / 🟥3 | 🟥4 / 🟥3 |
+| 유황 ★고유 | 🟥0 / 🟥0 | 🟥6 / 🟥3 | 🟥6 / 🟥3 | 🟥6 / 🟥3 | 🟥5 / 🟥1 |
+| 납 | 🟥7 / 🟥4 | 🟥8 / 🟥4 | 🟥8 / 🟥4 | 🟥7 / 🟥4 | 🟥4 / 🟥3 |
+| 주석 | 🟥1 / 🟥0 | 🟥0 / 🟥0 | 🟥0 / 🟥0 | 🟥0 / 🟥0 | 🟥0 / 🟥0 |
+| 진사 ★고유(새) | — | — | — | — | 🟥5 / 🟥3 |
+| 사철(새) | — | — | — | — | 🟥4 / 🟥0 |
+
+* 아무 광맥은 18/20이다(첫 판 1/7). T550 광맥이 마을 가까이 섰다.
+* 품목 하나로는 **정본에서 전부 빨간 줄**이다. 다 굽기 뒤 은(연은 포함)만 절반을 넘는다(13/20 · L1000 12/20). 유황은 0 → 6/20, 흑요석 3 → 8이다.
+* 한반도는 첫 판과 같다(정본·미리보기 json 바이트 같다 — §3-옛 ⓓ 표 그대로).
+
+### ⓕ TV · L 표 · (옛) D 표 — 지금 main 에서 다시 셌다
+
+* **광종 TV**:
+  * 실측(정본 면적 · 지배 광종) **0.2826**이다(첫 판 0.4228). 닛폰 490의 면적은 옥 26.6 · 납 17.7 · 철 14.7 · 구리 12.9 · 흑요석 9.4 · 금 9.3 · 은 8.6 · 주석 0.6%다 — 옛 55의 "큰 광맥 셋이 받은 옥"이 엷어졌다. 조성 0.1987 · 주요만 0.3552다.
+  * 설계(표)는 **0.437**로 같다.
+  * 미리보기는 L250/500/1000 = **0.4562 / 0.4454 / 0.4295**다(첫 판 L500 0.5357). 닛폰 다 굽기 뒤 면적은 흑요석 29.0 · 납 20.1 · 옥 19.7 · 유황 14.1 · 구리 9.5 · 금 6.2%다.
+* **L 표**: 끝·가운데의 이웃 고유 몫은 그대로다(프로필·존 크기가 같다). 뭍·마을은 닛폰이 바뀌었다(닛폰 뭍 4,762,478 → 4,442,641셀 · 후보 16 → 30).
+
+| L(셀) | 두 존 뭍 중 이웃 고유 ≥ 1% | ≥ 1% 마을(후보 · 한반도 + 닛폰 / 81) | 첫 판 |
+|---:|---:|---|---|
+| 250 | **36.17%** | 11 + 11 = **22** | 36.67% · 18 / 67 |
+| 500 | **72.14%** | 21 + 26 = **47** | 72.78% · 35 / 67 |
+| 1000 | **100%** | 51 + 30 = **81** | 100% · 67 / 67 |
+
+* **(옛) D 표**(카드 ② 원문의 띠 — 추신2가 꼬리로 바꿨다 · 기록): 경계까지 거리 ≤ D인 뭍 · 마을이다.
+
+| D(셀) | 한반도 뭍 중 띠 | 닛폰 뭍 중 띠 | **두 존 뭍 중 띠** | 띠 안 마을(후보 / 81) | 띠 안 시딩 마을(/ 71) | 첫 판 |
+|---:|---:|---:|---:|---|---|---|
+| 200 | 7.99% | 14.70% | **10.48%** | 5 + 5 = **10** | 5 + 4 = **9** | 10.32% · 6 / 67 |
+| 400 | 16.89% | 29.30% | **21.49%** | 7 + 8 = **15** | 7 + 7 = **14** | 21.67% · 11 / 67 |
+| 800 | 34.96% | 56.30% | **42.87%** | 12 + 17 = **29** | 12 + 13 = **25** | 43.07% · 22 / 67 |
+
+### ⓖ 첫 판과 무엇이 달라졌나(한 줄씩)
+
+* 성장 존 비의 방향이 뒤집혔다: 첫 판 1.03~1.23(닛폰이 빠르다) → 지금 0.73~0.95(닛폰이 느리다 · 끔부터). 0.8~1.25 밖은 0 → 셋이다(전부 아래쪽).
+* 켬의 방향: 첫 판은 씨마다 갈렸다. 지금은 켬(L500)이 세 씨 모두 닛폰 몫을 낮춘다.
+* 옥은 켬에서도 남는다(첫 판 0). 광산1 유황 0.94(한반도)는 그대로다.
+* 교역은 한→닛 넘음이 닛→한의 2~3배다(닛폰 마을 7 → 20).
+* 광종 값 폭주 0일과 끔 바이트 동일(여섯째 판 6/6)은 그대로다.
+* ⚠이 자에도 **도적 층이 없다**(T577 · 족보 519). 소멸 0/51 · 0/20은 그 사각 안의 수다 — T577 서버 판 다중 시드 자가 서면 같은 팔 셋을 그 자로 다시 잰다(회부 ⑫).
+
+## 3-옛. (기록) ③ 첫 판 — 옛 베이스 `4b1c400e`(닛폰 옛 55 광맥 · 시딩 7 · 다섯째 판) · 3시드(1020 · 7 · 42) × 800일
+
+> 이 절은 첫 판(푸시 2 `dacd1e94`)이다. 지금 세계의 답은 §3이다. 아래 ⓒ(은과 시대 축 · 유황 · 새 품목 셋)의 설명은 지금도 그대로 맞다. 닛폰 쪽 수(마을 일곱 · 광산 마을 하나 · 옥 0)는 옛 세계의 것이다.
 
 판(T533/T534 문법): `scripts/t525-cross-zone.js two hanbando nippon 800 <씨>` · 경계 교역 켬(`T525_CROSS_ZONE=1`) · 워커 둘. 자 `t574-probe.js`(-r · 워커도 물려받는다)는 econ 하루 틱 뒤에 **읽기만** 한다 — 값표 캐시 · 교역 장부 · 인구. probe를 단 t17 1020 = 안 단 판 바이트 동일이다.
 * 팔 셋은 이렇다. 시드 캐시는 팔마다 따로 둬서 땅 원판(oreMix)을 그 json에서 다시 굽는다.
@@ -263,6 +467,7 @@
 
 ## 4. ④ 그림 — `산그림/T574_특산.png`
 
+* ★**지금 main(`1b252a60` + 이 가지)으로 다시 그렸다** — 닛폰 정본 490 · 미리보기는 §3의 다시 구운 json(L500) · ⓓ 접근성은 §3 ⓔ의 표.
 * ⓐ 혼용 전 = 정본 광맥(지배 광종 색 · 주요 = 원판 · 자잘 = 점 · 면적 % 칸).
 * ⓑ 혼용 후 = 미리보기 L500(닛폰 다 굽기 · 한반도 덜 흔드는 굽기).
 * ⓒ 경계 넘는 꼬리 = 이웃 고유 품목 몫(L500 색 · L250/500/1000의 1% 선).
@@ -274,7 +479,10 @@
 * **끔 = 옛 글자**: 다섯 자리 모두 `RP.on()`(=`T574_REGION` > 0) 뒤에서만 새 줄을 탄다.
   * 낚시는 주사위 한 번 그대로 · 민물은 `choose` 없으면 옛 함수 · 나무는 `h % 8` · 군락은 같은 씨 · 계획기는 옛 두 갈래.
   * 하네스 ⓐ가 소스와 실행으로 맞대 본다.
-* 3시드 800일 두 자: `t17` 1020/7/42 · `t176` 1020/42/7 — main(`4b1c400e` 작업 트리) = 끔(`4a6238ff`) **바이트 동일**이다. 손잡이만 켠 t17 1020 = 끔이고, probe 단 t17 1020 = 끔이다.
+* ★**지금 main 위** — main `1b252a60`에 이 가지의 커밋 다섯(`4a6238ff` → 문서 커밋)을 cherry-pick 한 나무(PM 착지 길 · 충돌 0 · `server/`·`sim/`은 잰 판과 바이트 같다). ⚠옛 베이스에서 3-way merge로 얹으면 `t574-band-table.js`·`t574-ore-table.js` 둘이 add/add 충돌로 뜬다 — ①②가 main에 `a33390da`(cherry-pick)로 내려 git이 같은 파일임을 모르기 때문이다. cherry-pick이면 0이다:
+  * 3시드 800일 두 자 `t17` 1020/7/42 · `t176` 1020/42/7 — main = 끔 **바이트 동일 6/6**(여섯째 판 8,357 / 8,338 / 8,194 · 0/51) · 손잡이만 켠 t17 1020 = 끔 · probe 단 t17 1020 = 끔.
+  * `test-nippon-boot` **42/0** · `test-seam` **8/0** · `test-region-profiles` **61/0** · `test-harness-lint` **61/0** · `build-econ-bundle --check` **8/0** · `t408-seam-gate` 끔 바뀐 청크 **0**(한반도 · 닛폰 · 중원북) · 켬 L500 한반도 0 · 닛폰 2,259(나무 종 — 켬의 몫 · 게이트는 피처 모양만 까닭으로 알아서 빨강으로 센다 · 첫 판 2,217) · 중원북 0.
+* 첫 판(옛 베이스): 3시드 800일 두 자: `t17` 1020/7/42 · `t176` 1020/42/7 — main(`4b1c400e` 작업 트리) = 끔(`4a6238ff`) **바이트 동일**이다. 손잡이만 켠 t17 1020 = 끔이고, probe 단 t17 1020 = 끔이다.
 * 하네스·게이트: `test-region-profiles` 61/0(ⓐ 끔 · ⓑ 꼬리 식 · ⓒ 표 · ⓓ 뽑기 · ⓔ 종 · ⓕ 다섯 자리 · ⓗ 굽기 규칙 · ⓖ u — 미끼 둘: 군락·민물 칸을 채우면 고른다) · `test-nippon-boot` 42/0 · `test-seam` 8/0 · `t408-seam-gate` 끔 바뀐 청크 0/0/0(한반도 8,763 · 닛폰 6,223 · 중원북 12,446) · 켬 L500 0 / 2,217 / 0 · `build-econ-bundle --check` 8/0 · `test-harness-lint` 61/0.
   * 이웃: `test-mining` · `test-trees` 91 · `test-fishing` 49 · `test-tidal` 123 · `test-lab-trees` 52 · `test-fish-act` 73 · `test-forage-act` 249 · `test-wood-act` 146 · `test-oremix` · `test-assay`.
 * 계획기 출력(`plan-ore-clusters --zone nippon|hanbando --out`) main = 끔 바이트 동일 · 마이그레이션 미리보기 main = 가지 바이트 동일(POLY 자리만 옮김).
@@ -284,14 +492,16 @@
 
 | # | 무엇 | 왜 · 표 |
 |---|---|---|
-| ① | **유황(econ 쓰임 0)을 주요 광맥에 둘지** | 닛폰 "많음"(15%) · 한반도 꼬리 — 주요에 들면 원석 몫이 쌓이기만 한다(광산1 94%). 재민 08-01 ①(철)과 같은 결로 "주요엔 안 둔다"가 될 수 있지만 그건 새 규칙이다 — 재민 |
+| ① | **유황(econ 쓰임 0)을 주요 광맥에 둘지** | 닛폰 "많음"(15%) · 한반도 꼬리 — 주요에 들면 원석 몫이 쌓이기만 한다(광산1 94%). 재민 08-01 ①(철)과 같은 결로 "주요엔 안 둔다"가 될 수 있지만 그건 새 규칙이다 — 재민 · ★**지금 main**: 닛폰 다 굽기 미리보기가 광산 마을 넷에 유황을 준다(마트노 1.00 · 토오광산 0.75 · 쿠라다 0.37 · 이즈이 0.25 — 새 품목 켬은 진사 마트노 1.00 · 토오광산 0.36) · 켬이 세 씨 모두 닛폰 몫을 낮춘 판과 같이 간다(§3 ⓓ) — **T580 ③ 굽기 전에** 정할 것 |
 | ② | **꼬리를 주요 광맥에도 걸지** | 미리보기에서 꼬리 한 번이 경계 마을의 주 광맥을 바꿨다(광산1 납 → 유황). 꼬리를 자잘(플레이어 발견)에만 거는 길이 있다 — 재민 |
 | ③ | **L · s₀ 값** | L 표 250/500/1000(§2) · s₀ 0.5(★PM 기본) — 재민 값. T550은 이 값으로 굽는다 |
 | ④ | **한반도 정본 787을 이 프로필로 다시 구울지** | 옥 '없음'(지금 정본 면적 14%) · 미리보기 R2는 121/787(주요 8)이 바뀐다 · 한반도 단독 −2~7% — 정본 데이터 · 재민 |
-| ⑤ | **닛폰 옛 55** | 은 단독 7 · 철 주요 13 · 큰 광맥 셋 = 면적 34% — 재민 08-01 규칙 셋이 닛폰엔 안 걸려 있다. T550 ⑤ 적재 때 같이 볼지 — 재민 |
+| ⑤ | **닛폰 정본 490(T550)에 재민 08-01 규칙 셋이 없다** | 옛 picker로 구웠다 — 주요 철 18 · 은 단독 주요 12(자잘 39) · 다광종 0(옛 55도 같았다 · 은 단독 7 · 철 주요 13). T580 ③이 `bakeOre`로 다시 구우면 선다 — 다시 굽기는 정본 데이터 · 재민(L 정한 뒤) |
 | ⑥ | **새 품목 셋 값 · econ 거래 표** | 진사 = 수은 · 사철 = 철 · 조개 팔찌감 = 자색고둥(값·기여 = 호박 원석) — 재민 값. econ이 사고팔려면 옥처럼 손 표에 줄 · 안료 레시피 · 조개 팔찌감의 나는 자리 |
 | ⑦ | 식료 칸 · 링 군락 계획기 | 민물·군락·작물·열매 = T576 뒤(뱀장어·벼는 NOTES) · 정본 링 군락(`plan-village-forage`)은 구울 때 같은 함수를 부르면 된다 · econ 열매 예산(`trees.annualFruitBudget`)은 고르게 그대로 |
-| ⑧ | **③ 자를 T550 뒤에 다시** | 닛폰 econ 광산 마을 1 · 시딩 7 — 닛폰 특산이 econ에 실리는 정도는 T550 굽기·후보 뒤에야 값이 선다 |
+| ⑧ | ~~③ 자를 T550 뒤에 다시~~ → **닫음(§3)** | 지금 main 위에서 다시 쟀다 — 닛폰 광산 마을 1/7 → 11/20 · 성장 존 비 0.73~0.95. 남은 다시 잼은 둘: T580 ③ 굽기 뒤(정본이 바뀌면) · 도적 층 든 자(⑫) |
 | ⑨ | 중원북·베링 프로필 · 텅스텐·대리석 · 천하석 · 삼나무 종 | 카드 §3 · 재민 확정 제거와 부딪힘 · 196종 밖 · 나무 종 표(T123 랩)에 새 종(값) |
 | ⑩ | 존 안 접근성 자의 문턱 | 127셀은 "아무 광맥"의 p95라 품목 하나에는 정본부터 빨간 줄이 많다(한반도 정본 7품목 중 6) — 품목별 문턱을 둘지 PM |
 | ⑪ | t17 닛폰 판의 나무 biome | `trees._biome()`이 `ZONE_ID`만 읽는다(t17 은 `T17_ZONE`) — t17 닛폰 판은 한반도 biome(forest)의 흩어진 나무 밀도를 쓴다(T574 무관 · 옛 결) |
+| ⑫ | **도적 층 든 자로 다시** | 이 자(t525 two · t17 · t176)에도 도적 층이 없다(T577 · 족보 519 — 빈 마을은 도적 해체 · 게이트가 못 보는 죽음). 두 존 판 소멸 0/51 · 0/20은 그 사각 안의 수다. T577 서버 판 다중 시드 자가 서면 같은 팔 셋을 그 자로 — PM |
+| ⑬ | 닛폰이 끔부터 느리다(표만) | 성장 존 비 끔 0.95 / 0.76 / 0.92 · 1인당 생곡 0.77~0.91(끔) — T574 밖(T550 세계 · 시딩 20 × 8 · 땅 · 교역)의 결이다. 0.8~1.25는 판정 0 — 자리 고름은 PM · 재민 |

diff --git a/인계/V-마을배치.md b/인계/V-마을배치.md
@@ -18,12 +18,16 @@
   * `bakeOre` = 땅속 뽑기 + 재민 08-01 굽기 규칙 셋(주요 광맥엔 철·사철 없음 · 은 단독 광맥 없음 → 연은 · 납·구리·금은 POLY 분포). POLY 표는 `hanbando-minerals.js` 로 옮겼다(마이그레이션 스크립트도 그걸 읽는다 · 사본 0).
   * 나무 종(`trees.speciesAt`) · 낚시 종(zone.js — 주사위 한 번 그대로) · 민물 종(villages.js → `freshfish.pick(…, choose)`) · 야생 군락 종(chunk.js `_wildKindOf`).
   * `chooseSpecies` 는 그 자리 분포가 옛 목록의 **고르게와 같으면 null** — 옛 줄이 낸다(한반도 숲은 켬에서도 비트 동일 · t408 켬 한반도 바뀐 청크 0).
-* ⚠**구운 정본 광맥은 런타임에 다시 안 뽑는다** — 광종 혼용은 구울 때 한 번(카드 ②). 한반도 787 · 닛폰 55 를 프로필로 다시 굽는 것은 정본 데이터(재민 · T550) — `scripts/t574-ore-table.js --write` 는 **미리보기 json** 만 낸다(닛폰 다 굽기 R1 · 한반도 덜 흔드는 굽기 R2).
+* ⚠**구운 정본 광맥은 런타임에 다시 안 뽑는다** — 광종 혼용은 구울 때 한 번(카드 ②). 한반도 787 · 닛폰 490(T550) 을 프로필로 다시 굽는 것은 정본 데이터(재민 · T550) — `scripts/t574-ore-table.js --write` 는 **미리보기 json** 만 낸다(닛폰 다 굽기 R1 · 한반도 덜 흔드는 굽기 R2).
 * ⚠econ 은 광맥만 본다: 나무·낚시·군락 프로필은 econ(t17·t176·t525)에 0(손잡이만 켠 판 = 끔 바이트 동일). 열매 예산(`trees.annualFruitBudget`)은 고르게 그대로 — 열매 칸(식료)은 T576 대기.
 * ⚠유황·진사는 econ 쓰임 0 — 주요 광맥에 들면 그 원석 몫이 쌓이기만 한다(텅스텐 처지 · 재민 거부권).
 * 새 품목 셋(`specialty.js` · `T574_NEW_ITEMS=1` 일 때만 품목표에 선다): 진사 = 수은 · 사철 = 철 · 조개 팔찌감 = 자색고둥(값·기여 = 호박 원석) — 고름은 재민 값 · econ 거래 표(v1·v2 손 표)엔 안 넣었다.
 * 자: `scripts/t574-band-table.js`(L 표 · 뭍 · 마을) · `t574-ore-table.js`(TV · 미리보기 json) · `t574-access.js`(존 안 접근성 — 추신3) · `t574-probe.js`(-r · 값 폭주 · 흐름 · 인구 — 읽기만) · `t574-fig.py`(산그림) · 하네스 `test-region-profiles`.
 * T550 이 쓸 줄: `T574_REGION=<L> node scripts/plan-ore-clusters.js --zone nippon …` — 광종이 프로필 + 꼬리 + 재민 08-01 규칙 셋으로 구워진다(L 은 재민 값).
+* ★**③ 지금 main 위 다시 잼**(10-03 · `1b252a60` + 이 가지 · 보고 §3): 두 존 판 성장 존 비(닛폰 ÷ 한반도) 끔 0.95/0.76/0.92 · 켬 L500 0.82/0.73/0.80 · 새 품목 켬 0.76/0.87/0.85 — **닛폰이 끔부터 느리고 켬이 더 낮춘다**(첫 판 7마을 세계와 반대 · 0.8~1.25 는 판정 0).
+  * 닛폰 시딩 20 중 땅 원판에 광맥 든 마을 11(첫 판 1/7). 다 굽기 미리보기는 넷에 유황(econ 쓰임 0 · 마트노 1.00 · 토오광산 0.75 · 쿠라다 0.37 · 이즈이 0.25)을, 구리 마을 둘(카토쿠 · 네코로)에 연은을 준다 ⇒ **T580 ③ 굽기 전에 회부 ①(유황·진사 주요)·②(꼬리 주요)**.
+  * 끔 = 여섯째 판 바이트 동일 6/6 · 교역 두 방향(한→닛 넘음 463~755 · 닛→한 229~354) · 광종 값 폭주 0일 · 옥은 켬에서도 남는다. ⚠이 자엔 도적 층이 없다(T577 사각 — 소멸 0 은 그 안의 수).
+* ⚠T550 정본 490 은 옛 picker 로 구웠다 — 재민 08-01 규칙 셋이 없다(주요 철 18 · 은 단독 주요 12 · 다광종 0). `bakeOre` 다시 굽기(T580 ③)가 건다.
 
 ## T533. ★★2026-09-30 — 캐러밴 몸이 **경계 칸에서 이어 걷는다** · econ 은 **몸이 경계 칸에 선 날** 기록을 넘긴다(T525 §3-3 고침 · 팔 `T525_CROSS_ZONE` 기본 끔 · 승인 대기 · 보고/T533_2026-09-30.md)
 
